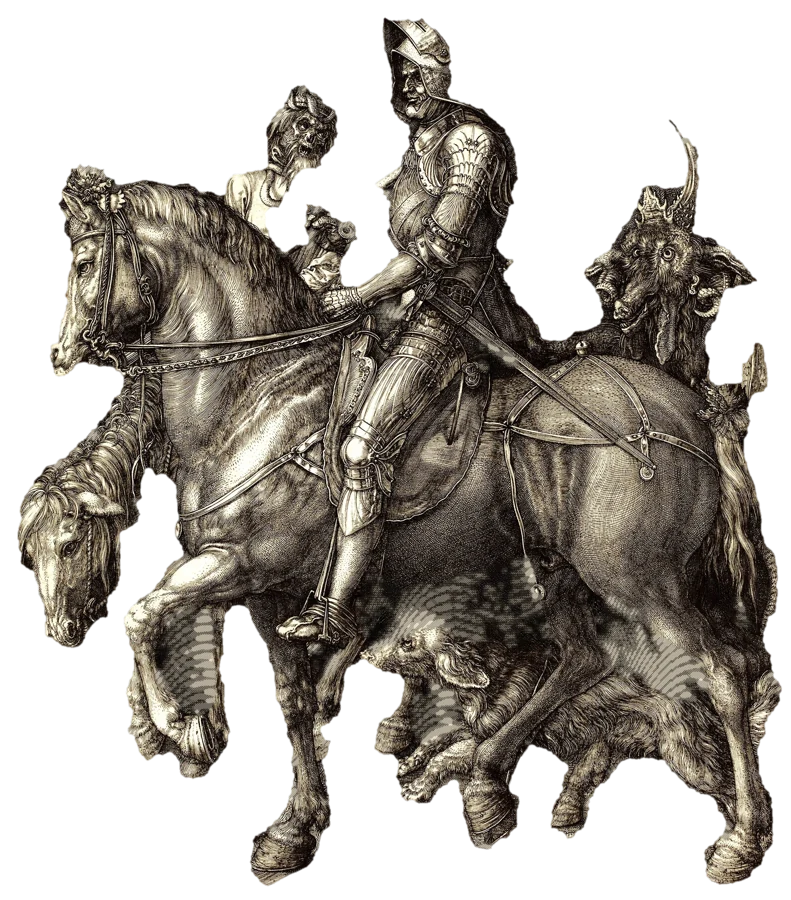
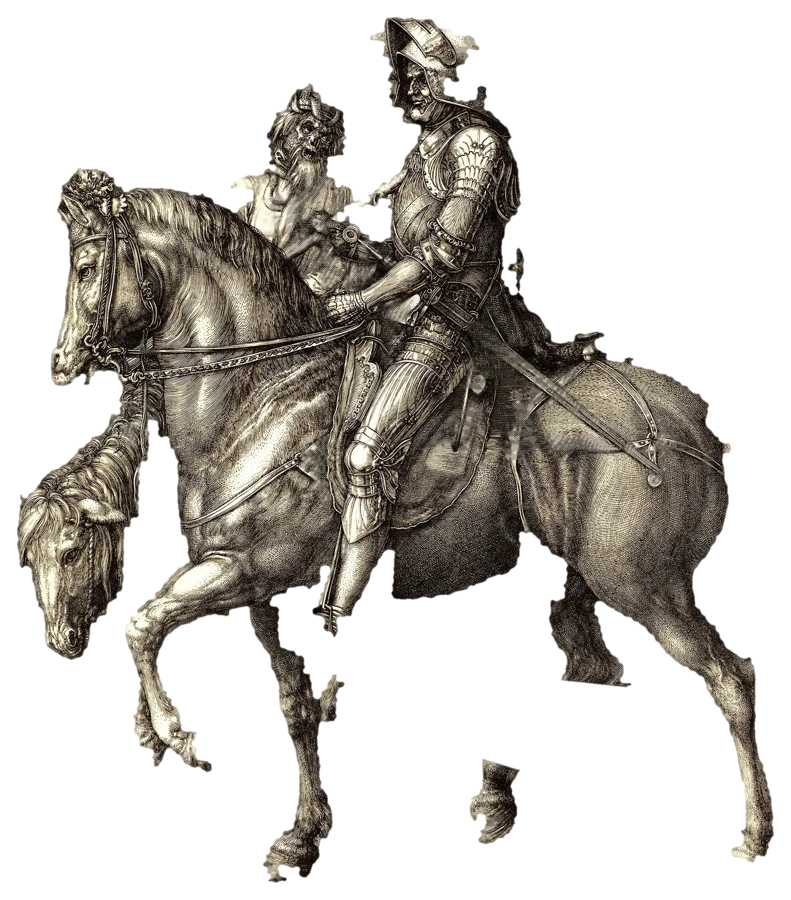
Camera never wider than the picture; engraving keeps some 3D shading; horse cut-out without the hound

diff --git a/js/gallery.js b/js/gallery.js
@@ -318,8 +318,12 @@ export class Gallery {
     const D = THREE.MathUtils.clamp(base * (1 - v.zoom), vis.height * 3.0, base * 1.3);
     const pitch = 0.16 + v.pitch;
     const want = new THREE.Vector3(T.x + Math.sin(v.yaw) * Math.cos(pitch) * D, T.y + Math.sin(pitch) * D, T.z + Math.cos(v.yaw) * Math.cos(pitch) * D);
-    // keep the picture's edges out of view
-    const planeZ = this.paintGroup.position.z, dPlane = Math.max(0.2, want.z - planeZ);
+    // keep the picture's edges out of view: never so far back that the view is wider or
+    // taller than the picture itself
+    const planeZ = this.paintGroup.position.z, tanV = Math.tan(THREE.MathUtils.degToRad(cam.fov / 2));
+    const maxBack = Math.min(this.pw * 0.46 / (tanV * cam.aspect), this.ph * 0.46 / tanV);
+    want.z = Math.min(want.z, planeZ + maxBack);
+    const dPlane = Math.max(0.2, want.z - planeZ);
     const halfH = Math.tan(THREE.MathUtils.degToRad(cam.fov / 2)) * dPlane, halfW = halfH * cam.aspect;
     const cx = this.paintGroup.position.x, cy = this.paintGroup.position.y;
     want.x = THREE.MathUtils.clamp(want.x, cx - Math.max(0, this.pw / 2 * 0.92 - halfW), cx + Math.max(0, this.pw / 2 * 0.92 - halfW));

diff --git a/js/animal3d.js b/js/animal3d.js
@@ -56,7 +56,7 @@ function stylise(material, uniforms) {
         float insideF = step(uFrame.x, vWorldP.x) * step(vWorldP.x, uFrame.y) *
                         step(uFrame.z, vWorldP.y) * step(vWorldP.y, uFrame.w) * step(vWorldP.z, uWallZ);
         float p = max(insideF, uPaintAll);
-        if (uPaintStyle > 0.5 && p > 0.0) gl_FragColor.rgb = mix(gl_FragColor.rgb, paintIt(gl_FragColor.rgb, uPaintStyle, gl_FragCoord.xy), p);`);
+        if (uPaintStyle > 0.5 && p > 0.0) gl_FragColor.rgb = mix(gl_FragColor.rgb, paintIt(gl_FragColor.rgb, uPaintStyle, gl_FragCoord.xy), p * (uPaintStyle > 1.5 && uPaintStyle < 2.5 ? 0.72 : 1.0));   // engraving keeps some body shading`);
   };
   material.customProgramCacheKey = () => 'paint3d';
 }

diff --git a/tools/segment_hosts.py b/tools/segment_hosts.py
@@ -60,7 +60,14 @@ HOSTS = {
                       "clip": [(755, 1020), (1152, 1020), (1152, 1555), (755, 1555)]},
     "durer-horse":   {"work": "durer", "box": [60, 190, 1800, 2380], "close": 15, "in_place": True,
                       "pos": [[900, 1450], [300, 900], [950, 700], [1500, 1700]],
-                      "neg": [[560, 750], [150, 1550], [1450, 950], [1000, 1950], [100, 2100]]},
+                      "neg": [[560, 750], [150, 1550], [1450, 950], [1000, 1950], [100, 2100]],
+                      # the hound is its own animal: leave it out of the horse
+                      "occlude": [[(853, 1830), (880, 1800), (930, 1768), (990, 1758), (1040, 1775), (1100, 1805), (1180, 1840),
+                                   (1260, 1868), (1360, 1878), (1470, 1890), (1580, 1915), (1640, 1960), (1650, 2020), (1630, 2080),
+                                   (1610, 2110), (1560, 2115), (1470, 2105), (1410, 2140), (1370, 2130), (1360, 2095), (1290, 2085),
+                                   (1200, 2075), (1120, 2050), (1080, 2030), (1000, 2045), (975, 2085), (990, 2150), (975, 2175),
+                                   (930, 2175), (925, 2150), (950, 2110), (940, 2050), (970, 2010), (1000, 1985), (980, 1950),
+                                   (950, 1915), (900, 1880), (870, 1858)]]},
     "durer-dog":     {"work": "durer", "box": [820, 1730, 1600, 2200], "close": 61,
                       "pos": [[920, 1800], [1080, 1880], [1110, 1990], [975, 2100], [1450, 1980], [1350, 1920]],
                       "neg": [[910, 2010], [1150, 2150], [1330, 2180], [760, 1760]],
@@ -200,12 +207,16 @@ for hid in (sys.argv[1:] or HOSTS):
     ff = closed.copy(); hh, ww = ff.shape
     cv2.floodFill(ff, np.zeros((hh + 2, ww + 2), np.uint8), (0, 0), 255)
     closed = closed | cv2.bitwise_not(ff)
+    occ = np.zeros_like(mask)
     if "occlude" in h:                  # things painted in front of the animal: not part of it
         for poly in h["occlude"]:
-            cv2.fillPoly(mask, [np.array(poly, np.int32)], 0)
+            cv2.fillPoly(occ, [np.array(poly, np.int32)], 255)
+        mask[occ > 0] = 0
     if "complete" in h:                 # hidden parts: the traced body becomes the outline
         poly = np.zeros_like(closed); cv2.fillPoly(poly, [np.array(h["complete"], np.int32)], 255)
         closed = closed | poly
+    if h.get("in_place"):               # a figure that stays put: shapes left out stay out
+        closed[occ > 0] = 0
     ys, xs = np.where(closed > 0)
     bx0, by0, bx1, by1 = xs.min(), ys.min(), xs.max() + 1, ys.max() + 1
     pad = 40
